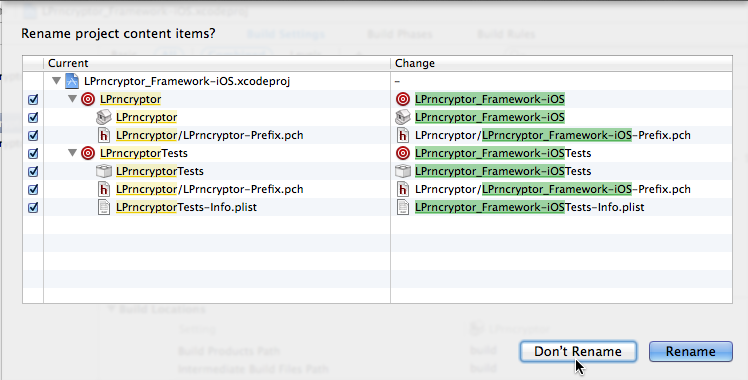
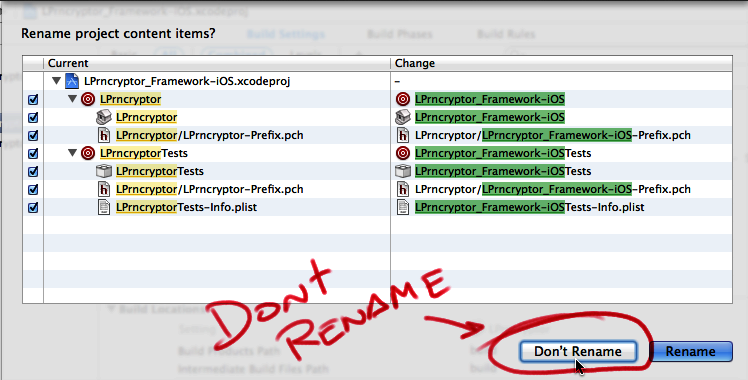
Fixed the missing "build for all Architectures"

diff --git a/README.md b/README.md
@@ -1,19 +1,17 @@
 Introduction
 ============
 
-How to create two frameworks, one for iOS and one for OSX, both sharing the same source and header files.
+This document describes how to create an iOS and OSX framework that both share same source and header files. This is something I need to do from time to time, however I allways forget HowTo, so I've written this document and hope it's also helpful for the community.
 
-Every time I want to create code that will be shared by a project for iOS and OSX then I don't remember the HowTo, so I've written this document just for that and also return something to the community. 
-
-This work is based on the excellent one done by jverkoey: <a href="https://github.com/jverkoey/iOS-Framework">How to create, develop, and distribute iOS Static Frameworks quickly and efficiently</a>.
-
-In order to document by example, I'm using a real project, **RNCryptor** <a href="https://github.com/RNCryptor/RNCryptor">CCCryptor (AES encryption) wrappers for iOS and Mac</a>, a library which fits very well to create two frameworks (iOS & OSX) both using the same sources and headers.
-<br />
-<br />
+The whoel iOS idea on how to create a Framework is coming from the excellent document done by jverkoey: <a href="https://github.com/jverkoey/iOS-Framework">How to create, develop, and distribute iOS Static Frameworks quickly and efficiently</a>.
 
 <a rel="license" href="http://creativecommons.org/licenses/by/3.0/"><img alt="Creative Commons License" style="border-width:0" src="http://i.creativecommons.org/l/by/3.0/88x31.png" /></a><br />This work is licensed under a <a rel="license" href="http://creativecommons.org/licenses/by/3.0/">Creative Commons Attribution 3.0 Unported License</a>.
 <br /a>
 <br /a>
+
+I'm using real code to create both Frameworks, indeed the code is from a project called **RNCryptor** <a href="https://github.com/RNCryptor/RNCryptor">CCCryptor (AES encryption) wrappers for iOS and Mac</a>, a library which fits very well in my objective, to create two frameworks (iOS & OSX) both using the same sources and headers.
+<br />
+<br />
 
 
 Table of Contents 
@@ -30,46 +28,36 @@ Table of Contents
 - [License](#license)
 
 
+
 <a name="walkthrough" />
 Common iOS and OSX Frameworks
 ========================================
 
-Objective is to create two frameworks, one for iOS and a different one for OSX, however both will share same source and header files.
 
-I'm using the RNCryptor project as an example, however I'll call my project with a different name in order to differentiate: "LPrncryptor".
+As I mentioned I'm using the RNCryptor project as an example, however my Framework will be called "LPrncryptor" and the XCode project will be renamed to LPrncryptor_Framework-iOS.xcodeproj and LPrncryptor_Framework-OSX.xcodeproj.
 
 
 <a name="overview" />
 Overview
 ========
 
-First I'm going to create three directories, one for the common code and the other two for iOS and OSX Xcode frameworks. 
+First I'm going to create three directories, one for the common code and the other two for iOS and OSX Xcode Projects.
 
 ![image](https://raw.github.com/LuisPalacios/Common-iOS_OSX-Framework/master/images/lp-dirStructure.png)
-
-I'll copy the common code into the Common directory and then create a iOS Framework (this one is the difficult part) and finally create an OSX Framework (easy). 
-
-- LPrncryptor
-	- Common
-	- Framework-iOS
-	- Framework-OSX 
-
 
 
 <a name="common" />
 Common code
 ===========
-As I mentioned, I'm using the code from the real project, **RNCryptor** <a href="https://github.com/RNCryptor/RNCryptor">CCCryptor (AES encryption) wrappers for iOS and Mac</a>, a library which fits very well to create two frameworks (iOS & OSX) both using the same sources and headers.
-<br />
-First step is to copy the common code in a common directory, so in this case I copy just the source and header files:
+I grabbed a copy from the real project, **RNCryptor** <a href="https://github.com/RNCryptor/RNCryptor">CCCryptor (AES encryption) wrappers for iOS and Mac</a>, and then copy the main files into the Common directory:
 
 ![image](https://raw.github.com/LuisPalacios/Common-iOS_OSX-Framework/master/images/lp-CommonCopy.png)
 
-Next step is the creation of the Frameworks
+Now that I have my common code lets create the iOS project and tweak it so it will create a .framework. 
+
 
 <a name="iosframework" />
-
-Create the iOS Project
+iOS Project
 ========================
 
 First step is to create an XCode project for the iOS framework, which will have three targets: a static library, a bundle, and an aggregate.
@@ -82,14 +70,12 @@ The aggregate target will build the static library for i386/armv6/armv7/armv7s, 
 
 
 <a name="staticlibrary" />
-iOS Framework: Create the Static Library Target
+iOS Framework: Static Library Target
 ----------------------------------------
 
 ### Step 1: Create a New "Cocoa Touch Static Library" Project
 
-
-The product name will be the name of your framework, in my case, `LPrncryptor` will generate
-`LPrncryptor.framework` once we've set up the project.
+First step is to create a new project. Choose the same name that you want your Future framework to have. In my case the product name will be `LPrncryptor`, you'll see later that my framwork will also be named `LPrncryptor.framework`, so lets go ahead:
 
 - Xcode->File New Project->iOS Framework & Library->Cocoa Touch Static Library
 - Product Name: LPrncryptor
@@ -99,22 +85,21 @@ The product name will be the name of your framework, in my case, `LPrncryptor` w
 ![image](https://raw.github.com/LuisPalacios/Common-iOS_OSX-Framework/master/images/lp-iOS_newprojectdir.png)
 ![image](https://raw.github.com/LuisPalacios/Common-iOS_OSX-Framework/master/images/lp-iOS_newprojectname.png)
 
-So you end up with something similar to 
+Final result: 
 
 ![image](https://raw.github.com/LuisPalacios/Common-iOS_OSX-Framework/master/images/lp-iOS_projectinit.png)
 
 
 
-
 ### Step 2: Rename Project adding "_Framework-iOS"
 
-I like to rename the XCode project (not its subdirctories nor the groups or files) to highlight it's for iOS. I like to have a name like LPrncryptor_Framework-iOS.xcodeproj for the Project file and a different name "LPrncryptor" for everything else. The reason is simple, I like to differentiate correctly from the OSX framework project that I'll create later. 
+This step is very important for me, it's a personal preference. I like to rename the XCode project (but not its content) just to indicate this one is for iOS. I'll do the same later for the OSX one, so when I have both open pointing to the same sources I know where I am... 
 
-So, within XCode and the iOS project open, rename it:
+In summary, I will end up having a Project called "LPrncryptor_Framework-iOS.xcodeproj" where all its contents will be called "LPrncryptor". So, within XCode, click on the project name and rename it: 
 
 ![image](https://raw.github.com/LuisPalacios/Common-iOS_OSX-Framework/master/images/lp-iOS_renameProject1.png)
 
-Don't rename the project content items, 
+***IMPORTANT: Don't rename the project content items,***
 
 ![image](https://raw.github.com/LuisPalacios/Common-iOS_OSX-Framework/master/images/lp-iOS_renameProject2.png)
  
@@ -122,31 +107,31 @@ With versions previous to XCode 5, after this you may need to change the manage 
 
 ![image](https://raw.github.com/LuisPalacios/Common-iOS_OSX-Framework/master/images/lp-iOS_renameProject3.png)
 
-If using XCode 5 I've found it's not necessary.
+I'm using XCode 5 and I've found it's not necessary.
 
 ### Step 3: Delete unnesary files and add Common code
 
-From XCode you can now delete the LPrncryptor.m and LPrncryptor.h files and send them to the trash.
+From XCode you can now delete the LPrncryptor.m and LPrncryptor.h files and send them to the trash, you don't need them.
 
 ![image](https://raw.github.com/LuisPalacios/Common-iOS_OSX-Framework/master/images/lp-iOS_deleteTwoFiles.png)
 
-Then bind the common source and header files from the Common directory
+Next step, bind source and header files from the Common directory
 
 ![image](https://raw.github.com/LuisPalacios/Common-iOS_OSX-Framework/master/images/lp-iOS_bindcommon.png)
 
-so you sould get something similar to the following: 
+Final result: 
 ![image](https://raw.github.com/LuisPalacios/Common-iOS_OSX-Framework/master/images/lp-iOS_bindcommondone.png)
 
 
-### Step 4: Create the Primary Framework Header
+### Step 4: Create Primary Framework Header
 
-Developers expect to be able to import your framework and do it just by importing one file. In my example it will the be `<LPrncryptor/LPrncryptor.h>` header. Ensure that your project has such a header. So, go and create such file under LPrncryptor group and *important: under the same Commoon directory where you copied all the common files*. File->new file->iOS->C and C++->Header file and name it LPrncryptor.h and check the LPrncryptor target.
+Developers expect to be able to import your framework just by importing one file. In my example it will the be `<LPrncryptor/LPrncryptor.h>` header. I recommend that your project has such one header that imports all the public ones. Create such file under LPrncryptor group and select the same *Commoon directory where you copied all the common files*. File->new file->iOS->C and C++->Header file. I've named it LPrncryptor.h (and made sure I check the LPrncryptor target).
 
-Within this header you are going to import **all of the public headers for your framework**. I'm my example they will be: RNCryptor.h, RNCryptorEngine.h, RNDecryptor.h, RNEncryptor.h but not the file RNCryptor+Private.h which is private. So, the final aspect of my new file would be: 
+Within this header you are going to import **all of your framework's public headers**. I'm my example the are: RNCryptor.h, RNCryptorEngine.h, RNDecryptor.h, RNEncryptor.h, and not the file RNCryptor+Private.h which is private. So, the final result of my new file would be: 
 
 ![image](https://raw.github.com/LuisPalacios/Common-iOS_OSX-Framework/master/images/lp-CommonHeader.png)
 
-Then in your projects you only import this file
+Then in your projects you will only import this file
 
 ```
 #import <Foundation/Foundation.h>
@@ -156,7 +141,7 @@ Then in your projects you only import this file
 
 ### Step 5: Make headers public
 
-Once you've created your framework header file and have the Common files, you just need to make it them "public" header. Public headers are headers that will be copied to the .framework and can be imported by those using your framework. This differs from "project" headers which will *not* be distributed with the framework. This distinction is what allows you to have a concept of public and private APIs.
+Once you've created your framework header file you need to make the Common headers "public". Public headers are headers that will be copied to the .framework and can be imported by those using your framework. These differs from "project" headers which will *not* be distributed with the framework. This distinction is what allows you to have a concept of public and private APIs.
 
 **Xcode 5:**
 Add Build Phases from the menu. Click on Editor > Add Build Setting -> Add Copy Headers. Note: If the menu options are grayed out, you'll need to click on the whitespace below the Build Phases to regain focus and retry.
@@ -198,9 +183,18 @@ settings:
 
 ![image](https://raw.github.com/LuisPalacios/Common-iOS_OSX-Framework/master/images/lp-iOS_nostrip.png)
 
-### Step 8: Prepare the Framework for use as a Dependent Target
+### Step 8: Build for all architectures
 
-In order to use the static library as though it were a framework we're going to generate the basic
+Make sure you build for all architectures, so set "Build Active Architecture Only" to NO on both Debug and Release under Build Settings
+
+    "Build Active Architecture Only" => No (for all settings)
+
+![image](https://raw.github.com/LuisPalacios/Common-iOS_OSX-Framework/master/images/lp-iOS_allarchs.png)
+
+
+### Step 9: Prepare Framework skeleton
+
+In order to use the static library as it were a framework we're going to generate the basic
 skeleton of the framework in the static library target. To do this we'll include a simple post-build
 script. Add a post-build script by selecting your project in the Project Navigator, selecting the target, and then the
 "Build Phases" tab. 
@@ -210,7 +204,7 @@ script. Add a post-build script by selecting your project in the Project Navigat
 **Xcode 5:** Select Editor menu > Add Build Phase > Add Run Script Build Phase
 
 Paste the following script in the source portion of the run script build phase. You can rename the phase by clicking
-the title of the phase (I've named it "LP_Prepare Framework (Run Script)", for example).
+the title of the phase (I've named it "LP_Prepare Framework (Run Script)"
 
 #### Script that Prepares the framework
 
@@ -259,11 +253,7 @@ see a `libLPrncryptor.a` static library, a `Headers` folder, and a `LPrncryptor.
 iOS Framework: Distribution Target
 ----------------------------------------
 
-When actively developing the framework we only care to build the platform that we're testing on. For
-example, if we're testing on the iPhone simulator then we only need to build the i386 platform. This changes when we want to distribute the framework to third party developers. The third-party
-developers don't have the option of rebuilding the framework for each platform, so we must provide
-what is called a "fat binary" version of the static library that is comprised of the possible
-platforms. These platforms include: i386, armv6, armv7, and armv7s.
+We must provide what is called a "fat binary" version of the static library that is comprised of all the possible platforms. These platforms include iphonesimulator (i386, x86_64) and iphoneos (armv6, armv7, and armv7s).
 
 To generate this fat binary we're going to build the static library target for each platform.
 
@@ -284,7 +274,7 @@ Add the static library target to the "Target Dependencies".
 
 ### Step 3: Build the Other Platform
 
-To build the other platform we're going to use a "Run Script" phase to execute some basic commands.
+To build all platforms we're going to use a "Run Script" phase to execute some basic commands.
 Add a new "Run Script" build phase to your aggregate target and paste the following code into it. You can rename the phase by clicking the title of the phase (I've named it "LP_Create Fat Framework (Run Script)", for example).
 
 #### Script to create the Fat framework
@@ -370,7 +360,10 @@ SF_TARGET_NAME="LPrncryptor"
 
 You now have everything set up to build a distributable .framework to third-party developers. 
 
-**SELECT YOUR Aggregate target and build it**. Notice this step, it's important, don't select the LPrncryptor target but the "Aggregate" target, in my case I'm selecting mine, that I called "Framework"
+
+IMPORTNAT: **SELECT YOUR Aggregate target and build it**.
+
+Notice this step, it's important to select the "Aggregate" and not the LPrncryptor target.
 
 ![image](https://raw.github.com/LuisPalacios/Common-iOS_OSX-Framework/master/images/lp-iOS_newTargetAggregate5.png)
 
@@ -385,6 +378,8 @@ You can now drag the .framework elsewhere, zip it up, upload it, and distribute 
 third-party developers.
 
 ![image](https://raw.github.com/LuisPalacios/Common-iOS_OSX-Framework/master/images/lp-iOS_newTargetAggregate6.png)
+
+Note: When you build the Aggregate you'll get the same LPrncryptor.framework either under iphoneos or iphonesimulator, the script is responsible of duplicating it to make sure you have the saome on both sides. You only need to copy one of them in order to use it in another project.
 
 
 
@@ -499,6 +494,18 @@ OSX Framework
 NOTE: THIS SECTION IS STILL WORK IN PROGRESS ... 
 
 ...I have to add here the steps to create a Framework for OSX, pointing to the same sources/headers, which will be much easier
+
+
+
+
+<a name="osxframework" />
+Using iOS/OSX Frameworks in a project
+=====================================
+
+NOTE: THIS SECTION IS STILL WORK IN PROGRESS ... 
+
+...I have to add here an example of how to add the recently created .framework files in a different project. 
+
 
 
 
